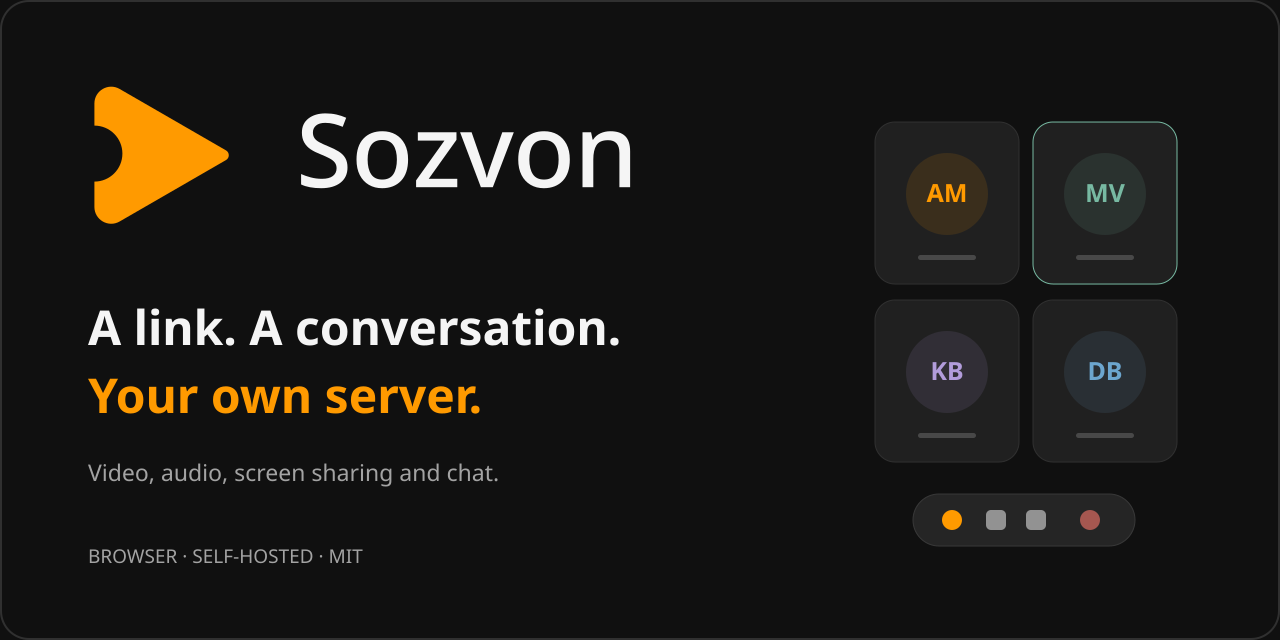
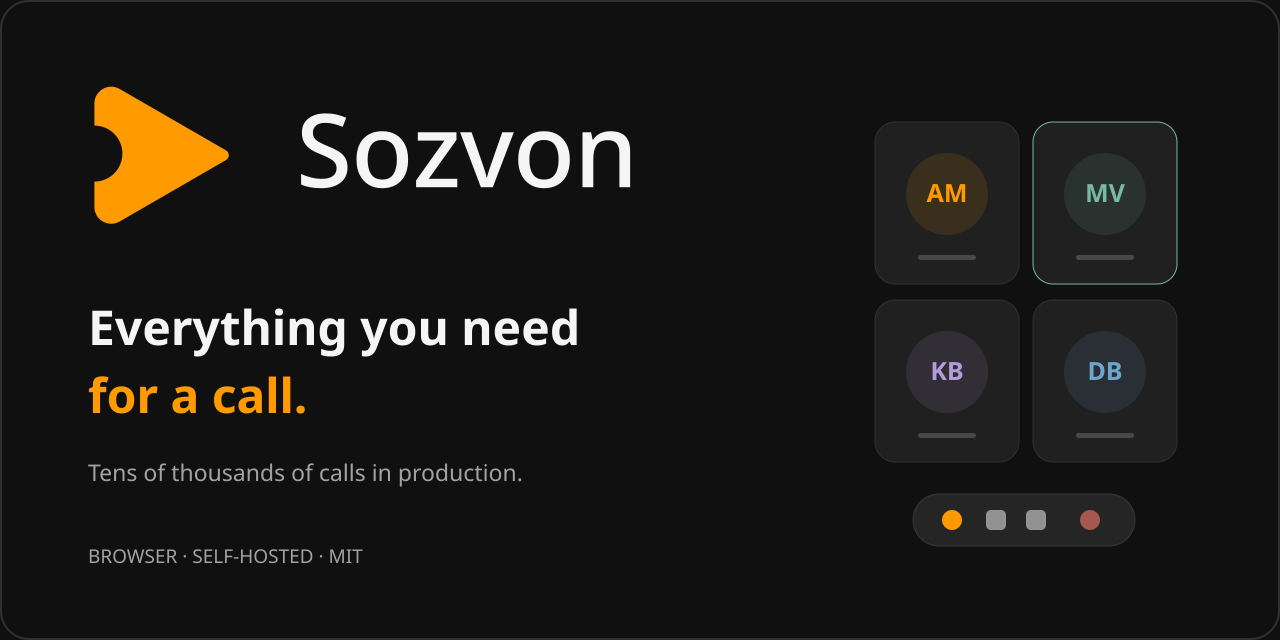
Emphasize minimal production-proven calls and deploy checked main to production

Changed region(s): [[0.0625, 0.4688, 0.5, 0.5625], [0.0625, 0.5938, 0.375, 0.6562], [0.0625, 0.7188, 0.4062, 0.75]]

diff --git a/README.md b/README.md
@@ -3,9 +3,9 @@
 </h1>
 
 <p align="center">
-  <strong>A link. A conversation. Your own server.</strong><br />
-  Video meetings in your browser, without accounts or sign-up.<br />
-  Share a room, turn on your microphone and bring everyone in.
+  <strong>Everything you need for a call.</strong><br />
+  Fast, minimal video meetings: audio, video, screen sharing and chat.<br />
+  Proven in production across tens of thousands of calls.
 </p>
 
 <p align="center">
@@ -27,7 +27,8 @@
   <a href="docs/assets/readme/meeting.webp"><img src="docs/assets/readme/meeting.webp" alt="sozvon desktop meeting with four synthetic participants, chat and call controls" width="1100" /></a>
 </p>
 
-sozvon brings audio, video, screen sharing and chat into one room. Send a link;
+sozvon keeps calls simple: audio, video, screen sharing and chat, with just the
+controls you need. It has handled tens of thousands of calls in production. Send a link;
 people choose a name and join from their browser. Check your microphone and camera
 before entering, expand a participant when you need a closer look, or keep the
 call beside its chat. The same interface adapts to a phone.
@@ -70,17 +71,19 @@ from a command or an inline query. All three applications live in this repositor
 
 ### The same room on your phone
 
-The lobby and call controls adapt to narrow screens. Safe driving mode offers a
-large microphone control. You can return to a recent meeting from the home screen.
+The lobby and call controls adapt to narrow screens. **Driver mode** puts a
+large microphone toggle and speaker status within easy reach. You can return to a recent meeting from the home screen.
 
 <table>
   <tr>
-    <th width="50%">Check before joining</th>
-    <th width="50%">Stay in the conversation</th>
+    <th width="33%">Check before joining</th>
+    <th width="34%">Stay in the conversation</th>
+    <th width="33%">Driver mode</th>
   </tr>
   <tr>
     <td align="center"><a href="docs/assets/readme/mobile-lobby.webp"><img src="docs/assets/readme/mobile-lobby.webp" alt="sozvon pre-join lobby on a phone-sized viewport" width="280" /></a></td>
     <td align="center"><a href="docs/assets/readme/mobile.webp"><img src="docs/assets/readme/mobile.webp" alt="sozvon meeting and controls on a phone-sized viewport" width="280" /></a></td>
+    <td align="center"><a href="docs/assets/readme/driver-mode.webp"><img src="docs/assets/readme/driver-mode.webp" alt="Driver mode with a large microphone control and speaker status" width="280" /></a></td>
   </tr>
 </table>
 
@@ -137,18 +140,12 @@ uses public STUN defaults unless configured otherwise.
 | Guide | What it covers |
 | --- | --- |
 | [Self-hosting](docs/self-hosting.md) | Local setup, configuration, build contexts and public deployment requirements. |
+| [Deployment](docs/deployment.md) | Checks, immutable images and automatic main-branch deployment. |
 | [Development](docs/development.md) | Repository layout, commands, browser tests and real media verification. |
 | [Architecture](docs/architecture.md) | Client, API, SFU, P2P signaling and the Telegram integration. |
 | [Contributing](CONTRIBUTING.md) | Bug reports, changes and the checks relevant to a pull request. |
 | [Brand and screenshots](docs/assets/README.md) | Vector source, image provenance and capture instructions. |
 | [Third-party notices](THIRD-PARTY-NOTICES.md) | Dependency licenses, font notices and the remaining asset review. |
-
-## Project status
-
-The repository is private during preparation for public release. Product
-development belongs here; existing production deployments still use the legacy
-release path. The remaining privacy and rights review and operational handover
-are tracked in [migration status](docs/MIGRATION.md).
 
 ## Contributing
 

diff --git a/docs/deployment.md b/docs/deployment.md
@@ -1,0 +1,48 @@
+# Deployment
+
+The maintained sozvon instance deploys from `main` after the Check job passes.
+Pull requests run checks without production credentials. Forks and independent
+self-hosted copies run checks unless deployment is explicitly configured.
+
+## Pipeline
+
+1. Install exact dependency locks, lint, run API/bot tests and build the client.
+2. Run Chromium/WebKit UI checks, isolated SFU media checks and full-history
+   secret scanning.
+3. Build API, client and bot containers from that tested revision and publish
+   immutable image digests to GHCR, with source and revision labels.
+4. Use host-owned deployment helpers to promote the API through a ready inactive
+   slot, atomically switch client files, then replace the sole bot poller.
+   Each component restores its previous version if its own promotion fails.
+
+API/client/bot updates do not replace LiveKit. Updating the SFU is a separate
+manual workflow option, `deploy_sfu`, and is refused while rooms are occupied.
+API replacement reconnects P2P signaling; the SFU media service stays running.
+A failure in a later component does not roll back components already promoted.
+
+## Configuration
+
+The workflow is disabled for deployment unless repository variable
+`PRODUCTION_DEPLOY_ENABLED` is `true`. Set up a `prod` environment restricted to
+`main` before enabling it. Container publishing uses the job's scoped
+`GITHUB_TOKEN`; hosts need read access to their private registry images.
+
+Production environment variables:
+
+- `SERVER_URL`, `SERVER_WS_URL`: client build-time API/signaling addresses.
+- `SSH_HOST`, `SSH_USER`: media/web deployment destination.
+- `BOT_SSH_HOST`, `BOT_SSH_USER`: optional bot deployment destination.
+
+Production environment secrets:
+
+- `SSH_KEY`, `SSH_KNOWN_HOSTS`: restricted media/web key and authenticated host key.
+- `BOT_SSH_KEY`, `BOT_SSH_KNOWN_HOSTS`: separate restricted bot key and host key.
+
+These SSH keys permit only validated deployment commands, without an interactive
+shell, forwarding or arbitrary script upload. Runtime credentials, hostnames,
+nginx, host helpers and authorized public keys are managed in private ops.
+Never place administrative SSH keys or runtime secrets in this repository.
+
+Application build contexts and generic configuration are documented in
+[self-hosting](self-hosting.md). Hosted-instance access and rollback procedures
+belong in the private operations runbook.

diff --git a/CONTRIBUTORS.md b/CONTRIBUTORS.md
@@ -1,27 +1,11 @@
 # Contributors
 
-## Original development
-
 - **[Nikolay Prudnikov (@nprudnikov)](https://github.com/nprudnikov)** — original
-  browser client and server work, including P2P calling, localization and room
-  validation.
+  browser client and server development, including P2P calling, localization and
+  room validation. [Room validation contribution](https://github.com/ufna/sozvon/commit/009bec4033779d40d128e513fbf3de5fb2b31d10).
 - **[Vladimir Alyamkin (@ufna)](https://github.com/ufna)** — client/server and
-  Telegram integration work, maintenance and the sozvon monorepo migration.
+  Telegram integration development, maintenance and releases.
 
-The new repository retains the work of both developers even where the source
-history was replaced by a clean snapshot. A new repository's automatic GitHub
-contributor list is based on its Git history, not this document.
-
-## Preserved Git authorship
-
-Nikolay's original room-token validation commit was imported as
-[`009bec4`](https://github.com/ufna/sozvon/commit/009bec4033779d40d128e513fbf3de5fb2b31d10) with its source
-author identity, author date, message and exact before/after file contents.
-Its reviewed parent contains only that file; the private source repository's
-ancestry is not imported. A merge retains the current monorepo files unchanged
-while making the real contribution reachable from main for GitHub attribution.
-
-Two selected client layout fixes also retain their original Git author metadata.
-Other historical per-line attribution remains available in the private source
-archives. Personal email addresses are not reproduced in these documents;
-Git commits retain the author metadata needed to credit their authors.
+Git history retains selected original contributions with their author identity
+and date. GitHub's automatic contributor graph can be viewed
+[for all time](https://github.com/ufna/sozvon/graphs/contributors?all=1).

diff --git a/CHANGELOG.md b/CHANGELOG.md
@@ -2,12 +2,9 @@
 
 ## Unreleased
 
-- Combine the browser client, API/signaling server and Telegram bot in one
-  repository without importing the legacy Git ancestry or production configuration.
-- Use the sozvon name and Zov mark across the client and Telegram integration.
-- Provide local SFU setup with generated credentials and Node 24 development scripts.
-- Add CI for lint, API/bot tests, Chromium/WebKit UI checks, isolated SFU media
-  verification and full-history secret scanning.
-- Prepare MIT licensing, illustrated documentation and contribution guidance.
-
-No public versioned release has been published from this repository yet.
+- Minimal browser calls with audio, video, screen sharing and chat.
+- Desktop and mobile layouts, including Driver mode with a large mic toggle.
+- LiveKit SFU and P2P connection modes.
+- Optional Telegram invitations with a configurable site URL.
+- Local SFU setup with generated credentials and Node 24 development scripts.
+- MIT-licensed source and automatic checked main-branch deployments.

diff --git a/SECURITY.md b/SECURITY.md
@@ -9,11 +9,9 @@ using synthetic participants. Remove room URLs, tokens, IP addresses, personal
 paths and conversation content from diagnostics. Do not attach `.env` files,
 recordings or complete production logs. Never test against someone else's calls.
 
-The project is preparing its first public release; no separate long-term support
-branches are maintained. Fixes target the current main branch.
+Security fixes target the current main branch; no separate long-term support
+branches are maintained.
 See [architecture](docs/architecture.md) for room access and media trust boundaries.
 
 Contributor secret-scanning instructions are in the
-[development guide](docs/development.md#secrets-and-source-review). Pre-publication
-audit and credential-rotation tasks are tracked in
-[migration status](docs/MIGRATION.md).
+[development guide](docs/development.md#secrets-and-source-review).

diff --git a/docs/self-hosting.md b/docs/self-hosting.md
@@ -99,8 +99,8 @@ remain sozvon / Zov on every hostname.
 Use `/readyz` to check the API-to-SFU connection before routing traffic. Deploy
 API and SFU updates independently: replacing an SFU can interrupt ongoing calls.
 Keep immutable image digests, backups, rollout and rollback procedures in your
-private infrastructure repository. No automatic production deployment runs from
-this repository at this preparation stage.
+private infrastructure repository. The maintained instance is deployed from checked main-branch commits by
+GitHub Actions; see [deployment](deployment.md) for the setup contract.
 
 For Telegram invitations, see [bot setup](../apps/bot/README.md).
 For trust boundaries, see [architecture](architecture.md) and [security](../SECURITY.md).

diff --git a/THIRD-PARTY-NOTICES.md b/THIRD-PARTY-NOTICES.md
@@ -38,8 +38,5 @@ photos or live call recordings are used in these documentation captures.
 The social image is rendered from the checked-in SVG source.
 [Provenance and reproduction](docs/assets/README.md).
 
-## Release review
-
-A full audit of existing binary assets, font provenance and transitive dependency
-notices remains part of the pre-publication rights review. This document records
-known license information; it does not mark that review complete.
+Redistributions must preserve the applicable dependency and asset notices. Check
+new binary assets, fonts and transitive dependencies when preparing a release.

diff --git a/docs/assets/README.md b/docs/assets/README.md
@@ -32,7 +32,7 @@ node scripts/capture-readme.mjs
 
 The script enforces English visible text before saving each image and uses
 1440×900 desktop and 390×844 mobile viewports. It waits for
-local fonts and images and captures home, lobby, meeting and settings views.
+local fonts and images and captures home, lobby, meeting, settings and mobile Driver mode views.
 `SCREENSHOT_URL` may select a different **loopback** server; remote hosts are
 rejected to avoid accidental capture of a real meeting.
 
